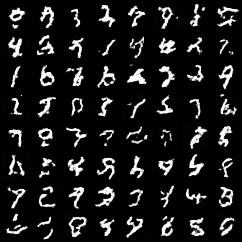
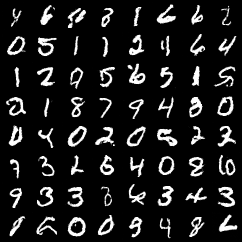
feat: update README with detailed method descriptions and add sample images; enhance sampling script to find latest checkpoint

diff --git a/src/sampling.py b/src/sampling.py
@@ -14,7 +14,7 @@ from torchdiffeq import odeint
 
 from src.methods.base import Method
 from src.schedules import T_MIN
-from src.train import CKPT_DIRNAME, METHODS
+from src.train import CKPT_DIRNAME, METHODS, find_latest_checkpoint
 
 load_dotenv()
 
@@ -40,6 +40,7 @@ def sample(
 
     trajectory = odeint(ode_func, x1, t_grid, method=solver)
     return trajectory[-1]  # type: ignore
+
 
 @torch.no_grad()
 def sample_adaptive(
@@ -82,9 +83,8 @@ def generate_and_save(
     device = torch.device(device)
     method = METHODS[method_name]().to(device)
     if ckpt_path is None:
-        ckpt_path = (
-            Path(os.environ["CKPT_ROOT"]) / CKPT_DIRNAME[method_name] / "model.pt"
-        )  # type: ignore
+        ckpt_root = Path(os.environ["CKPT_ROOT"]) / CKPT_DIRNAME[method_name]  # type: ignore
+        ckpt_path = find_latest_checkpoint(ckpt_root)  # type: ignore
     else:
         ckpt_path = Path(ckpt_path)  # type: ignore
     method.net.load_state_dict(

diff --git a/README.md b/README.md
@@ -1,1 +1,132 @@
-# MNIST: GENERATIVE MODELING
+# MNIST Generative Modeling
+
+Five generative-modeling methods — two flow-matching variants, DDPM, and two
+score-matching variants — implemented on a shared UNet, a shared
+continuous-time convention, and a shared probability-flow-ODE sampler, so
+they can be trained and compared on equal footing.
+
+![Python](https://img.shields.io/badge/python-3.11-blue)
+![PyTorch](https://img.shields.io/badge/PyTorch-torchvision-ee4c2c)
+![License](https://img.shields.io/badge/license-Apache--2.0-green)
+
+| FM-OT samples | FM-Diffusion samples | DDPM samples | Score-matching samples |
+|---|---|---|---|
+| ![FM-OT samples](figs/fm_ot.png) | ![FM-Diffusion samples](figs/fm_diffusion.png) | ![DDPM samples](figs/ddpm.png) | ![Score-matching samples](figs/score.png) |
+
+## Overview
+
+All five methods share the same forward corruption recipe: a clean digit
+`x0` and Gaussian noise `x1 ~ N(0, I)` are mixed along a conditional path
+`x_t = alpha(t) * x0 + sigma(t) * x1` for `t` in `[T_MIN, 1]`. What differs
+per method is (a) which path — linear/OT or variance-preserving (VP) — (b)
+what the network head regresses (velocity, noise, or score), and (c) the
+loss weighting. Every method exposes a `velocity(x, t)` method (the
+probability-flow-ODE drift `dx/dt`), which is the only thing the sampler
+touches — so one integrator draws samples from all five identically.
+
+| Method | Family | Conditional path | Network predicts | Loss weight |
+|---|---|---|---|---|
+| `fm_ot` | Flow matching | Linear / optimal transport | velocity | uniform |
+| `fm_diffusion` | Flow matching | Variance-preserving (VP) | velocity | uniform |
+| `ddpm` | Noise matching | VP | noise `ε` | uniform (Ho et al. 2020) |
+| `score` | Score matching | VP | score | `sigma(t)^2` (Song & Ermon 2019) |
+| `score_continuous` | Score matching | VP | score | `beta(1-t)` (likelihood-weighted) |
+
+> [!NOTE]
+> `src/methods/base.py` defines the shared `Method` interface; `src/schedules.py`
+> is the single source of truth for `alpha(t)`, `sigma(t)`, and `beta(t)`.
+
+## Evaluation
+
+Each trained checkpoint is scored on three metrics
+(`src/evaluate_metrics.py`), matching the protocol in Song et al. 2021:
+
+- **NLL (bits/dim)** — exact likelihood via the augmented probability-flow
+  ODE `(x, log-det)` with a Hutchinson trace estimator (the FFJORD trick),
+  evaluated on held-out test data.
+- **FID** — Frechet distance between real and generated feature
+  statistics. Two feature extractors are supported: ImageNet-pretrained
+  Inception-v3 (`--feature-extractor inception`, default, comparable to
+  numbers reported elsewhere) and a small CNN trained on MNIST itself
+  (`--feature-extractor mnist_cnn`, more domain-appropriate for 28x28
+  grayscale digits — train it first with `src/train_classifier.py`).
+- **NFE** — average number of function evaluations an adaptive-tolerance
+  (`dopri5`) solver needs to draw one sample.
+
+`src/compare_methods.py` collects every method's `metrics.json` into one
+Markdown table.
+
+## Getting started
+
+```bash
+conda env create -f environment.yml
+conda activate flow
+pip install python-dotenv   # not yet in environment.yml, but required
+cp .env.example .env        # then set CKPT_ROOT to a writable directory
+```
+
+`CKPT_ROOT` is where every script reads and writes checkpoints, cached FID
+statistics, and metrics reports (one subdirectory per method — see
+`.env.example`).
+
+## Usage
+
+```bash
+# Train one of: fm_ot, fm_diffusion, ddpm, score, score_continuous
+bash scripts/train_ddpm.sh --epochs 100
+
+# Train the MNIST-CNN classifier used by --feature-extractor mnist_cnn
+bash scripts/train_classifier.sh --epochs 10
+
+# Draw samples from the latest checkpoint (pass --ckpt for a specific one)
+python -m src.sampling --method ddpm --num-samples 64 --out samples_ddpm.png
+
+# Evaluate NLL / FID / NFE for one method
+bash scripts/evaluate.sh ddpm --feature-extractor mnist_cnn
+
+# Evaluate and compare all 5 methods, then render comparison.md
+bash scripts/compare_all.sh
+```
+
+> [!TIP]
+> `--epochs 50 80 100` on `evaluate.sh` evaluates specific checkpoints and
+> writes a `metrics_history.json` you can plot FID/NLL against epoch with.
+
+## Results
+
+Example run (epoch 350, Inception-v3 FID, 2000 samples per metric — small
+by FID convention, so treat these as directional rather than final):
+
+| Method | NLL (BPD) $\downarrow$| FID $\downarrow$| Avg. NFE $\downarrow$|
+|---|---|---|---|
+| `ddpm` | 2.392 | 124.481 | 177.5 |
+| `score` | 1.868 | 129.055 | 150.5 |
+| `score_continuous` | 2.379 | 241.597 | 185.0 |
+| `fm_diffusion `| 2.221 | 123.583 | 153.5 |
+| `fm_ot` | **1.606** | **120.598** | **116.0** |
+
+Regenerate this table with `bash scripts/compare_all.sh`.
+
+## Project structure
+
+```
+src/
+  methods/              # Method subclasses: fm_ot, fm_diffusion, ddpm, score, score_continuous
+  models/               # Shared UNet + MNIST-CNN classifier
+  metrics/              # FID and NLL/likelihood implementations
+  data.py               # MNIST data pipeline
+  schedules.py          # alpha(t), sigma(t), beta(t) conditional-path definitions
+  sampling.py           # Probability-flow-ODE sampler (fixed-step and adaptive)
+  train.py              # Trains one of the 5 generative methods
+  train_classifier.py   # Trains the MNIST-CNN FID feature extractor
+  evaluate_metrics.py   # NLL / FID / NFE for one checkpoint
+  compare_methods.py    # Renders the cross-method comparison table
+scripts/                # Shell wrappers around the above, with logging
+test/                   # pytest suite
+```
+
+## Testing
+
+```bash
+pytest test/
+```
